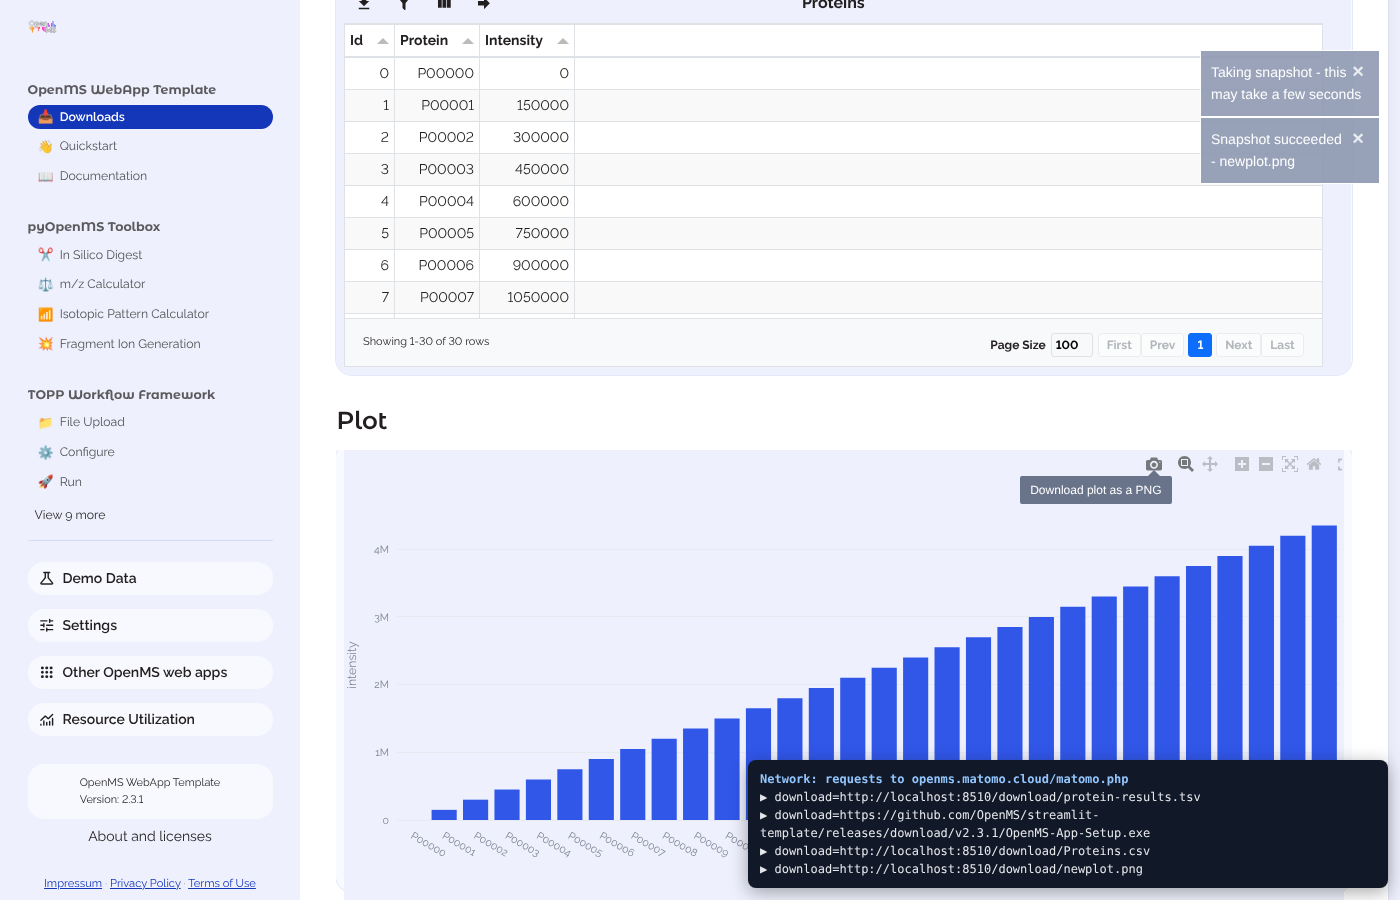
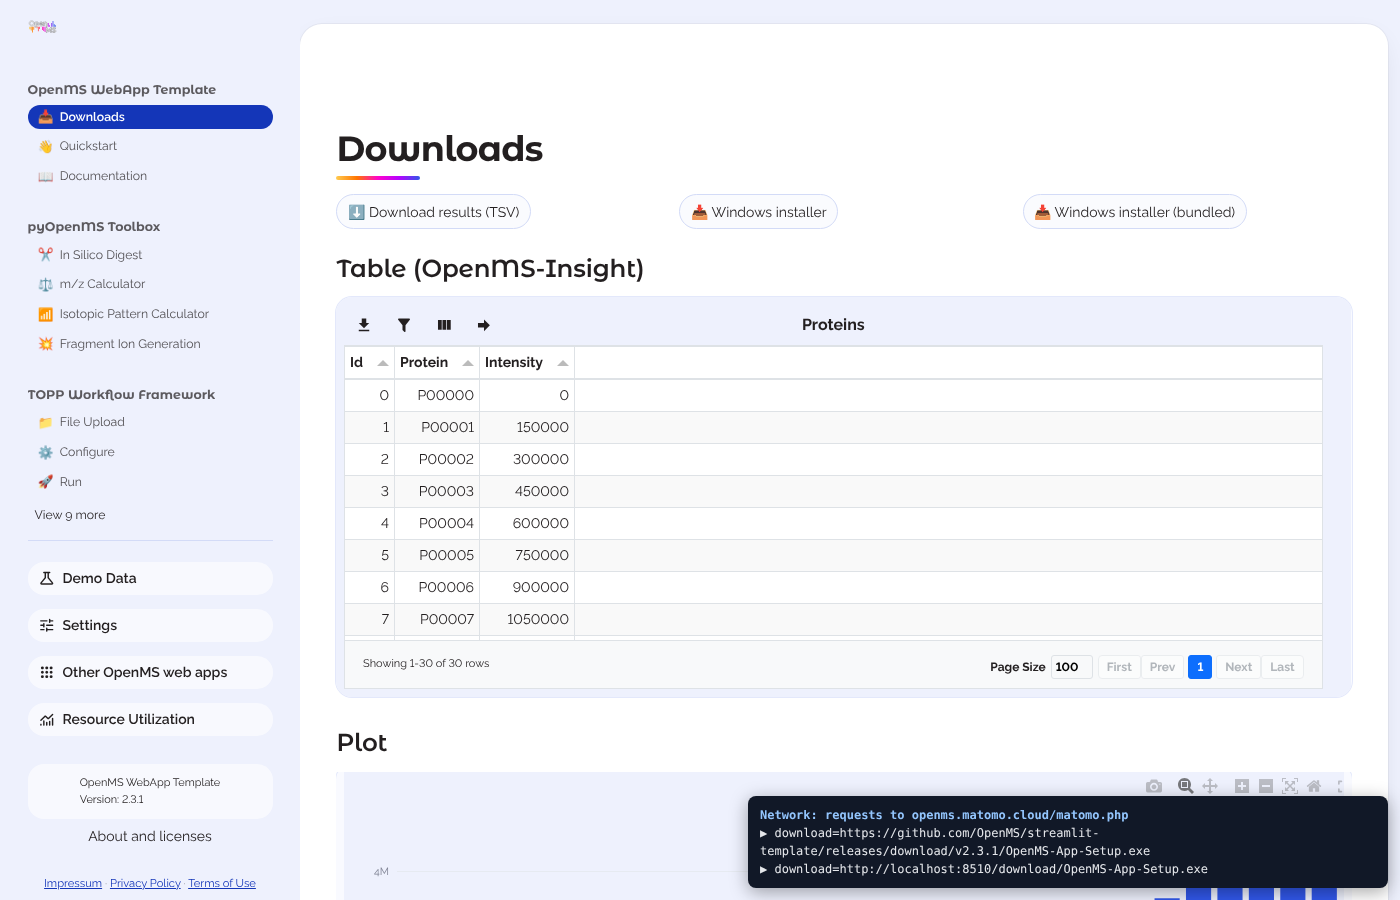
Report only installer downloads
Only files with an installer extension (exe, msi, dmg, pkg, AppImage, deb,
rpm) are reported: the installer buttons' links to a release and the
bundled Windows installer. Results, tables and figures are not counted, so
component frames are no longer watched.

Claude-Session: https://claude.ai/code/session_01FkEGenwbwREtmA2Z33HjhQ

diff --git a/src/common/download_tracking.py b/src/common/download_tracking.py
@@ -1,58 +1,48 @@
-"""Report file downloads to Matomo, once the visitor has agreed to tracking.
+"""Report installer downloads to Matomo, once the visitor has agreed to tracking.
 
-Every download a visitor starts in the app is sent to Matomo as a download
-(the *Downloads* report under Behaviour), named by the app's host and the
-file name, so each web app's downloads show up under its own address:
+Every installer a visitor downloads from the app is sent to Matomo as a
+download (the *Downloads* report under Behaviour), named by the app's host
+and the file name, so each web app's installer downloads show up under its
+own address:
 
     https://<app host>/download/<file name>
 
-Covered are the files the browser saves from the page and from its
-components, whatever made them:
+Covered are the installer buttons of ``src/common/installers.py``: the
+``st.link_button`` links to the files of a release, and the
+``st.download_button`` of the Windows installer bundled with the image. Other
+downloads (results, tables, figures) are not reported.
 
-- ``st.download_button`` (results, ZIPs, reports, tables, figures),
-- links to a file (``st.link_button`` to the installers of a release,
-  markdown links to a file),
-- files saved inside a component frame, such as the CSV, Excel and image
-  downloads of the OpenMS-Insight tables and plots, and the image download
-  of Plotly charts.
-
-The script runs in the app's own window (the frame of ``components.html``
-is on the same origin). It listens for clicks on download links in the
-page and in every same-origin frame, and wraps ``HTMLAnchorElement.click``
-for links the page clicks without adding them to the document, which is
-how Streamlit saves the file of a download button. Its file name then comes
-from the ``Content-Disposition`` of a ``HEAD`` request for the media file.
+The script runs in the app's window (the frame of ``components.html`` is on
+the same origin). It listens for clicks on links in the page and wraps
+``HTMLAnchorElement.click`` for links the page clicks without adding them to
+the document, which is how Streamlit saves the file of a download button; that
+file's name comes from the ``Content-Disposition`` of a ``HEAD`` request for
+the media file. Only files with an installer extension are reported.
 
 Hits go to the trackers the Matomo Tag Manager container created (through
-``_paq`` while none exists yet, which keeps them until one does), together with a ``_mtm``
-event named ``download`` that a container trigger can use. Nothing is sent
-without consent: ``page_setup()`` adds the script only after the visitor
-agreed to Matomo in the consent banner. ``analytics.matomo.track_downloads``
-set to ``false`` in settings.json turns it off.
+``_paq`` while none exists yet, which keeps them until one does), together
+with a ``_mtm`` event named ``download`` that a container trigger can use.
+Nothing is sent without consent: ``page_setup()`` adds the script only after
+the visitor agreed to Matomo in the consent banner.
+``analytics.matomo.track_downloads`` set to ``false`` in settings.json turns
+it off.
 """
 
 import json
 
-# File types a plain link counts as a download for (Matomo's own list, plus
-# the formats of mass spectrometry data and results).
-DOWNLOAD_EXTENSIONS = [
-    "7z", "appimage", "bz2", "consensusxml", "csv", "d", "deb", "dmg", "docx",
-    "exe", "fasta", "featurexml", "gz", "html", "idxml", "jpeg", "jpg", "json",
-    "md", "msi", "mzid", "mzml", "mztab", "mzxml", "parquet", "pdf", "pkg",
-    "png", "raw", "sdrf", "sif", "svg", "tar", "tgz", "traml", "tsv", "txt",
-    "webp", "xls", "xlsx", "xml", "xz", "yaml", "yml", "zip",
-]
+# File types of the desktop installers.
+INSTALLER_EXTENSIONS = ["appimage", "deb", "dmg", "exe", "msi", "pkg", "rpm"]
 
 
 def tracking_enabled(settings: dict) -> bool:
-    """Whether downloads are reported (Matomo on, downloads not switched off)."""
+    """Whether installer downloads are reported (Matomo on, downloads not switched off)."""
     matomo = settings.get("analytics", {}).get("matomo", {})
     return bool(matomo.get("enabled")) and matomo.get("track_downloads", True) is not False
 
 
 def tracker_script(app_name: str) -> str:
-    """The page that installs the download tracking in the app's window, once."""
-    config = json.dumps({"app": app_name, "extensions": DOWNLOAD_EXTENSIONS})
+    """The page that installs the installer download tracking in the app's window, once."""
+    config = json.dumps({"app": app_name, "extensions": INSTALLER_EXTENSIONS})
     return f"""<!DOCTYPE html>
 <html lang="en"><head></head><body><script>
 (function () {{
@@ -70,9 +60,14 @@ def tracker_script(app_name: str) -> str:
     }} catch (e) {{ return ""; }}
   }}
 
+  function isInstaller(name) {{
+    return extensions.test(name || "");
+  }}
+
   // A download of the same file within a second is the same download seen twice.
   function send(name, url) {{
-    name = (name || "").trim() || "download";
+    name = (name || "").trim();
+    if (!isInstaller(name)) return;
     var key = name + "|" + url;
     var now = Date.now();
     if (recent[key] && now - recent[key] < 1000) return;
@@ -94,79 +89,41 @@ def tracker_script(app_name: str) -> str:
                     downloadName: name, downloadUrl: target}});
   }}
 
-  // A Streamlit media file is named in its Content-Disposition.
+  // A Streamlit media file (the bundled Windows installer) is named in its
+  // Content-Disposition.
   function sendMedia(url, fallback) {{
     fetch(url, {{method: "HEAD", credentials: "same-origin"}}).then(function (r) {{
       var cd = r.headers.get("Content-Disposition") || "";
       var m = /filename\\*=utf-8''([^;]+)/i.exec(cd) || /filename="([^"]+)"/i.exec(cd);
       send(m ? decodeURIComponent(m[1]) : fallback, url);
-    }}).catch(function () {{ send(fallback, url); }});
-  }}
-
-  function isDownload(a) {{
-    var href = a.getAttribute("href") || "";
-    if (!href || href.charAt(0) === "#" || /^(javascript|mailto|tel):/i.test(href)) return false;
-    if (a.hasAttribute("download")) return true;
-    if (/\\/media\\//.test(href) || /\\/releases\\/download\\//.test(href)) return true;
-    return extensions.test(fileOf(a.href));
+    }}).catch(function () {{}});
   }}
 
   function report(a) {{
-    if (!isDownload(a)) return;
+    var href = a.getAttribute("href") || "";
+    if (!href || href.charAt(0) === "#" || /^(javascript|mailto|tel):/i.test(href)) return;
     var url = a.href;
-    var name = a.getAttribute("download") || "";
-    if (!name && /\\/media\\//.test(url) && url.indexOf(win.location.origin) === 0) {{
-      sendMedia(url, fileOf(url));
+    var name = a.getAttribute("download") || fileOf(url);
+    if (/\\/media\\//.test(url) && url.indexOf(win.location.origin) === 0) {{
+      sendMedia(url, name);
     }} else {{
-      send(name || fileOf(url), url);
+      send(name, url);
     }}
   }}
 
-  // A frame keeps its window when its first blank page is replaced by the
-  // component's page, so the document is marked, not the window.
-  function watch(w) {{
-    try {{
-      if (!w) return;
-      var doc = w.document;
-      if (doc && !doc.__openmsDownloadWatched) {{
-        doc.__openmsDownloadWatched = true;
-        // Links in the document: a visitor's click, or a component that adds
-        // a link and clicks it.
-        doc.addEventListener("click", function (ev) {{
-          var a = ev.target && ev.target.closest && ev.target.closest("a[href]");
-          if (a) report(a);
-        }}, true);
-      }}
-      // Links clicked without being in the document (Streamlit's download button).
-      var proto = w.HTMLAnchorElement.prototype;
-      if (!proto.__openmsDownloadWatched) {{
-        proto.__openmsDownloadWatched = true;
-        var click = proto.click;
-        proto.click = function () {{
-          try {{ if (!this.isConnected) report(this); }} catch (e) {{}}
-          return click.apply(this, arguments);
-        }};
-      }}
-    }} catch (e) {{ /* a frame of another origin */ }}
-  }}
+  // Links in the page: the installer buttons of a release.
+  win.document.addEventListener("click", function (ev) {{
+    var a = ev.target && ev.target.closest && ev.target.closest("a[href]");
+    if (a) report(a);
+  }}, true);
 
-  function watchFrame(f) {{
-    var hook = function () {{ try {{ watch(f.contentWindow); }} catch (e) {{}} }};
-    f.addEventListener("load", hook);
-    hook();
-  }}
-
-  watch(win);
-  Array.prototype.forEach.call(win.document.querySelectorAll("iframe"), watchFrame);
-  new win.MutationObserver(function (records) {{
-    records.forEach(function (r) {{
-      r.addedNodes.forEach(function (n) {{
-        if (n.nodeType !== 1) return;
-        if (n.tagName === "IFRAME") watchFrame(n);
-        if (n.querySelectorAll) Array.prototype.forEach.call(n.querySelectorAll("iframe"), watchFrame);
-      }});
-    }});
-  }}).observe(win.document.body, {{childList: true, subtree: true}});
+  // Links clicked without being in the page (Streamlit's download button).
+  var proto = win.HTMLAnchorElement.prototype;
+  var click = proto.click;
+  proto.click = function () {{
+    try {{ if (!this.isConnected) report(this); }} catch (e) {{}}
+    return click.apply(this, arguments);
+  }};
 }})();
 </script></body></html>
 """

diff --git a/tests/test_download_tracking.py b/tests/test_download_tracking.py
@@ -1,4 +1,4 @@
-"""Download tracking: when it is on, and what the page script does."""
+"""Installer download tracking: when it is on, and what the page script does."""
 
 import re
 import subprocess
@@ -7,7 +7,7 @@ import shutil
 import pytest
 
 from src.common.download_tracking import (
-    DOWNLOAD_EXTENSIONS,
+    INSTALLER_EXTENSIONS,
     tracker_script,
     tracking_enabled,
 )
@@ -47,9 +47,12 @@ def test_script_reports_downloads_as_matomo_downloads():
     assert '"/download/"' in js
 
 
-def test_extensions_cover_results_and_installers():
-    for ext in ("csv", "tsv", "xlsx", "mzml", "zip", "exe", "dmg", "appimage", "png", "svg"):
-        assert ext in DOWNLOAD_EXTENSIONS
+def test_only_installers_are_reported():
+    for ext in ("exe", "msi", "dmg", "pkg", "appimage", "deb", "rpm"):
+        assert ext in INSTALLER_EXTENSIONS
+    for ext in ("csv", "tsv", "xlsx", "zip", "png", "mzml"):
+        assert ext not in INSTALLER_EXTENSIONS
+    assert "if (!isInstaller(name)) return;" in _script()
 
 
 @pytest.mark.skipif(shutil.which("node") is None, reason="node is not installed")

diff --git a/CLAUDE.md b/CLAUDE.md
@@ -393,6 +393,6 @@ Design and rationale: `docs/notebook-to-webapp-design.md`, `docs/adr/0001..0005`
 - **There is no `pyproject.toml`** despite the pip-compile header in `requirements.txt` — it was never committed, so the lockfile cannot be regenerated. Edit `requirements.txt` directly (the redis/rq/xlsxwriter lines at the bottom are already hand-maintained).
 - **The root `entrypoint.sh` is dead code** — superseded by `docker/entrypoint.sh` (all four Dockerfiles copy that one). Its `RUNTIME_DIR` default even names a different project.
 - `hooks/hook-analytics.py` is *not* a PyInstaller hook: it rewrites Streamlit's installed `static/index.html` in site-packages to inject analytics. Only run it inside a container image build.
-- **Download tracking** (`src/common/download_tracking.py`): once a visitor agrees to Matomo, `page_setup()` adds a script to the app's window that reports every file the browser saves (download buttons, links to files such as installers, CSV/Excel/image downloads inside OpenMS-Insight and Plotly frames) as a Matomo download named `https://<app host>/download/<file name>`, plus a `download` event in the Tag Manager data layer. Downloads therefore show per app under Behaviour → Downloads. `analytics.matomo.track_downloads: false` turns it off.
+- **Installer download tracking** (`src/common/download_tracking.py`): once a visitor agrees to Matomo, `page_setup()` adds a script to the app's window that reports every installer the visitor downloads (the buttons of `installers.py`: links to the files of a release and the bundled Windows installer; files ending in `.exe`, `.msi`, `.dmg`, `.pkg`, `.AppImage`, `.deb`, `.rpm`) as a Matomo download named `https://<app host>/download/<file name>` (a release link keeps its own URL), plus a `download` event in the Tag Manager data layer. Installer downloads therefore show per app under Behaviour → Downloads; other downloads are not reported. `analytics.matomo.track_downloads: false` turns it off.
 - `.streamlit/secrets.toml` is gitignored; only `.example` is tracked. `example-data/workspaces/` *is* tracked, so save-as-demo writes into version control.
 - `docs/build_app.md` is stale where it refers to `APP_NAME`/`REPOSITORY_NAME` in `src/common.py`; those now live in `settings.json` and the module is `src/common/common.py`.
